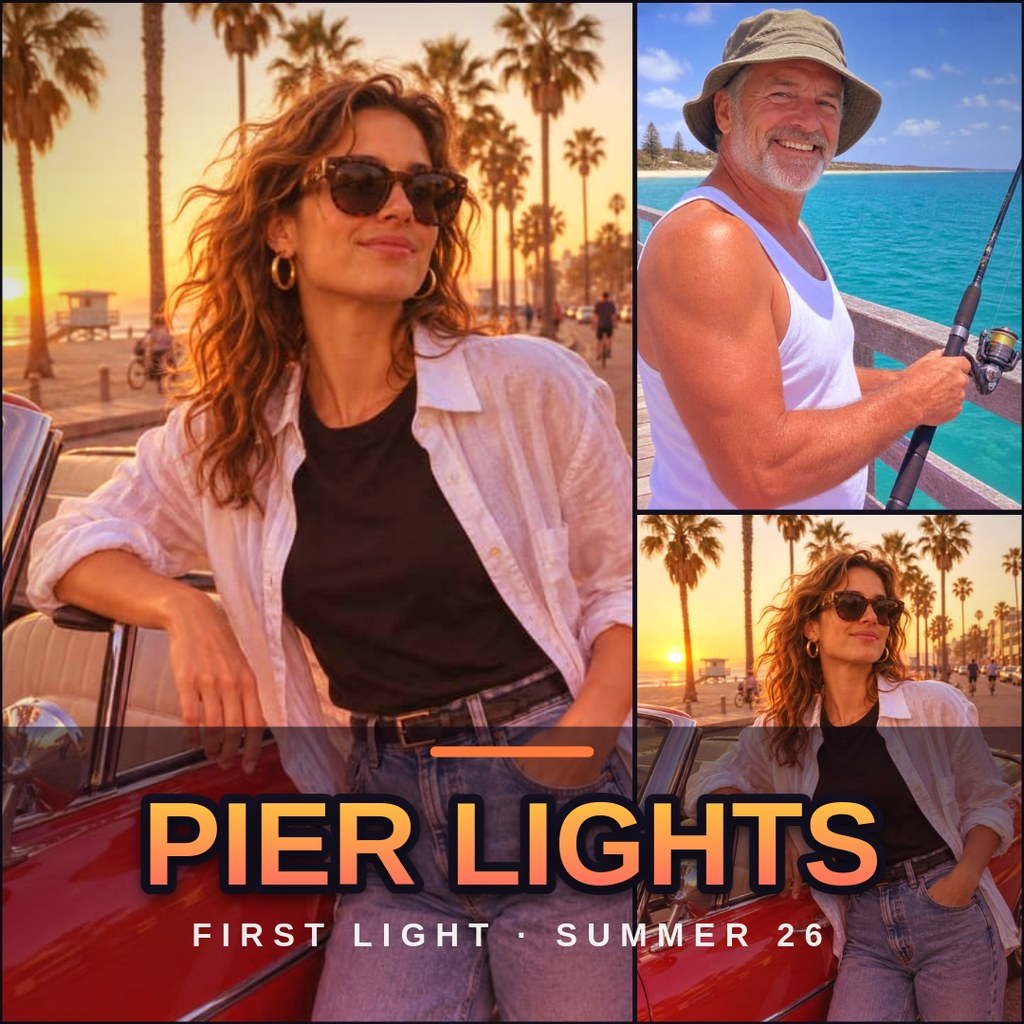
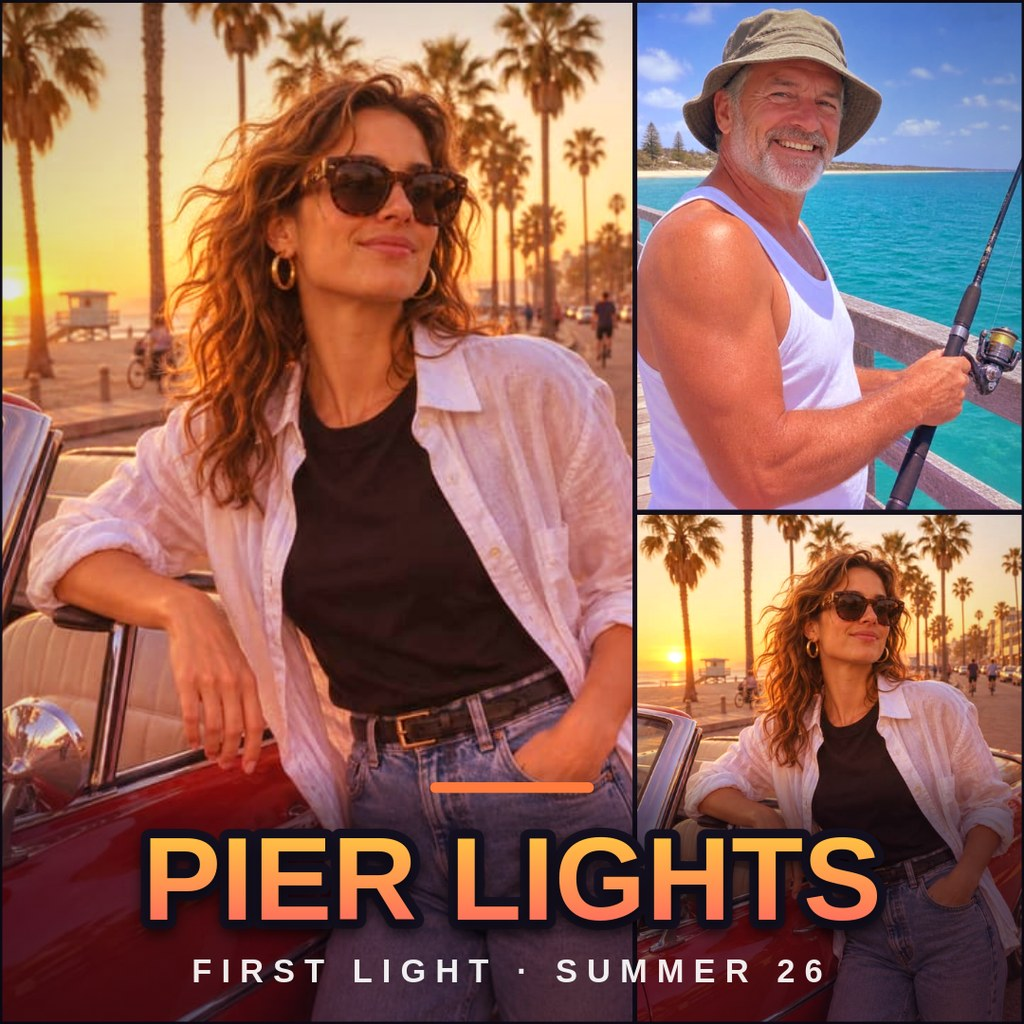
Bottom caption hugs the cover edge with a proper scrim

Changed region(s): [[0.0, 0.6875, 1.0, 1.0]]

diff --git a/app/src/cover.js b/app/src/cover.js
@@ -120,6 +120,9 @@ function drawCaption(ctx, w, h, state, grade) {
   if (!text && !sub) return;
   const baseSize = Math.min(w, h) * 0.115 * state.captionScale;
   const margin = h * 0.055;
+  // A bottom caption hugs the cover's lower edge: the text sits over the lowest
+  // strip of the panels (shoulders and chests), never over the faces above it.
+  const edgeGap = h * 0.02;
   const maxWidth = w * 0.92;
   const { lines, size } = text
     ? fitCaption(ctx, text, maxWidth, baseSize)
@@ -130,14 +133,29 @@ function drawCaption(ctx, w, h, state, grade) {
   const subH = sub ? subSize * 1.9 : 0;
   const totalH = blockH + subH;
   const top = state.captionPosition === 'top';
-  const blockTop = top ? margin : h - margin - totalH;
+  const blockTop = top ? margin : h - edgeGap - totalH;
 
-  // A soft dark scrim behind the lettering so it reads on any photo.
-  const scrim = ctx.createLinearGradient(0, top ? 0 : h, 0, top ? totalH + margin * 2 : h - totalH - margin * 2);
-  scrim.addColorStop(0, 'rgba(8, 5, 16, 0)');
-  scrim.addColorStop(1, 'rgba(8, 5, 16, 0.55)');
-  ctx.fillStyle = scrim;
-  ctx.fillRect(0, top ? 0 : h - totalH - margin * 2, w, totalH + margin * 2);
+  // A dark scrim behind the lettering so it reads on any photo: darkest where
+  // the text sits, fading to transparent just beyond the block.
+  if (top) {
+    const y0 = 0;
+    const y1 = blockTop + totalH + margin;
+    const scrim = ctx.createLinearGradient(0, y0, 0, y1);
+    scrim.addColorStop(0, 'rgba(8, 5, 16, 0.55)');
+    scrim.addColorStop(1 - margin / (y1 - y0), 'rgba(8, 5, 16, 0.5)');
+    scrim.addColorStop(1, 'rgba(8, 5, 16, 0)');
+    ctx.fillStyle = scrim;
+    ctx.fillRect(0, y0, w, y1 - y0);
+  } else {
+    const y0 = blockTop - margin;
+    const y1 = h;
+    const scrim = ctx.createLinearGradient(0, y0, 0, y1);
+    scrim.addColorStop(0, 'rgba(8, 5, 16, 0)');
+    scrim.addColorStop(margin / (y1 - y0), 'rgba(8, 5, 16, 0.5)');
+    scrim.addColorStop(1, 'rgba(8, 5, 16, 0.55)');
+    ctx.fillStyle = scrim;
+    ctx.fillRect(0, y0, w, y1 - y0);
+  }
 
   // Accent bar: above the block at the foot, below it at the top.
   const barW = w * 0.16;
